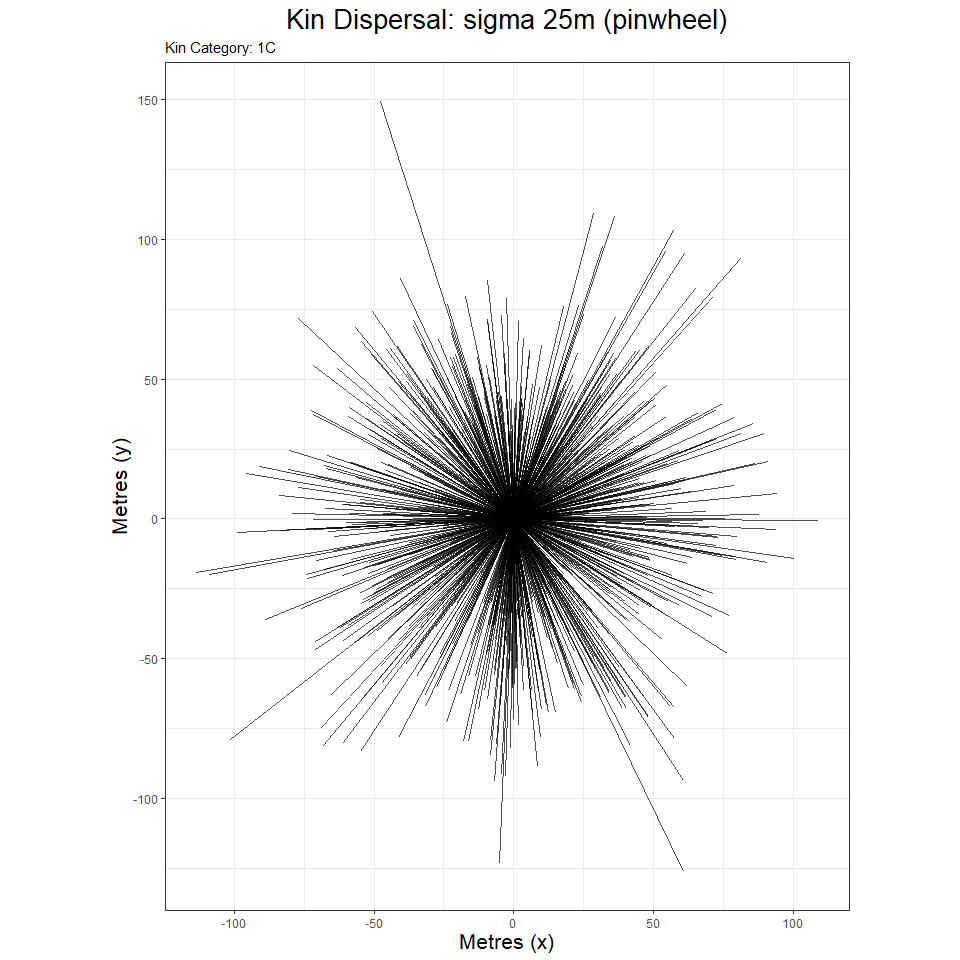
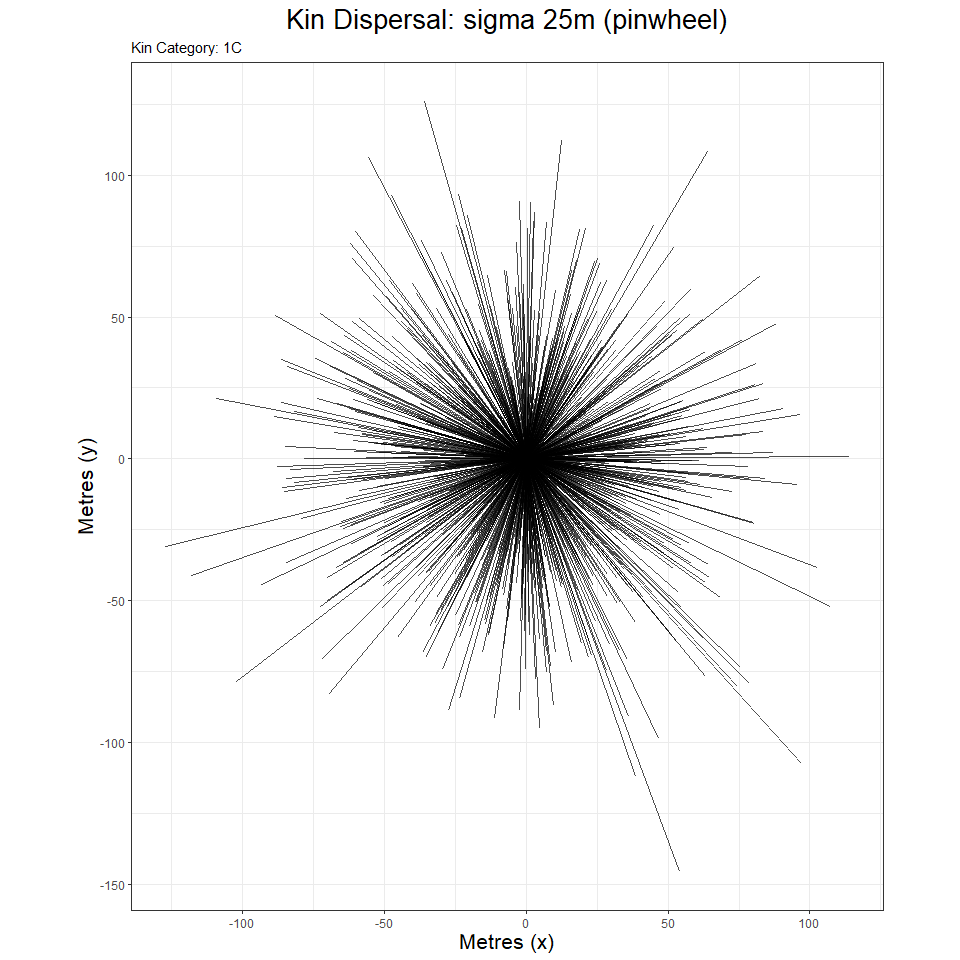
increment version

diff --git a/README.md b/README.md
@@ -1,4 +1,4 @@
-KINDISPERSE 0.10.1
+KINDISPERSE 0.10.2
 ================
 
 -   [1. Introduction](#1-introduction)
@@ -150,7 +150,7 @@ Once installed, load the package as follows:
 
 ``` r
 library(kindisperse)
-#> kindisperse 0.10.1
+#> kindisperse 0.10.2
 ```
 
 # 3. The shiny app
@@ -298,11 +298,11 @@ simulate_kindist_simple(nsims = 5, sigma = 100, method = "Gaussian", kinship = "
 #> # A tibble: 5 x 8
 #>   id1   id2   kinship distance    x1    y1     x2    y2
 #>   <chr> <chr> <chr>      <dbl> <dbl> <dbl>  <dbl> <dbl>
-#> 1 1a    1b    PO          86.1  1.09  2.07  85.1   21.1
-#> 2 2a    2b    PO          61.9 64.1  99.9    3.14 111. 
-#> 3 3a    3b    PO          96.0 83.4  68.2  175.    97.6
-#> 4 4a    4b    PO         134.  46.9  25.5  172.   -23.3
-#> 5 5a    5b    PO          90.7 14.8  58.5  101.    87.5
+#> 1 1a    1b    PO         156.  77.3   96.4   9.70 237. 
+#> 2 2a    2b    PO         103.   4.58  72.6 107.    64.3
+#> 3 3a    3b    PO         127.  45.6   91.4  94.7  209. 
+#> 4 4a    4b    PO          77.2 59.1   17.8 113.   -37.9
+#> 5 5a    5b    PO          63.0 10.8   58.6  47.2  110. 
 #> -----------------------------------
 ```
 
@@ -348,13 +348,13 @@ simulate_kindist_composite(nsims = 5, initsigma = 50, breedsigma = 30, gravsigma
 #> 
 #> tab
 #> # A tibble: 5 x 8
-#>   id1   id2   kinship distance     x1     y1    x2     y2
-#>   <chr> <chr> <chr>      <dbl>  <dbl>  <dbl> <dbl>  <dbl>
-#> 1 1a    1b    H1C         206.  105.   165.  -99.6  188. 
-#> 2 2a    2b    H1C         452.  -41.9 -106.  229.   255. 
-#> 3 3a    3b    H1C         477. -110.   136.  152.  -262. 
-#> 4 4a    4b    H1C         121.   36.8  218.  -57.2  141. 
-#> 5 5a    5b    H1C         179. -132.    82.8  46.9   76.9
+#>   id1   id2   kinship distance    x1     y1    x2    y2
+#>   <chr> <chr> <chr>      <dbl> <dbl>  <dbl> <dbl> <dbl>
+#> 1 1a    1b    H1C         302.  31.9   9.67 154.  286. 
+#> 2 2a    2b    H1C         170. -35.6  41.1   33.4 196. 
+#> 3 3a    3b    H1C         169. 262.  -73.5  139.   42.2
+#> 4 4a    4b    H1C         186. 285.   16.3  162.  156. 
+#> 5 5a    5b    H1C         212. 233.   35.2   21.5  50.4
 #> -----------------------------------
 ```
 
@@ -405,11 +405,11 @@ simulate_kindist_custom(nsims = 5, model = dmodel, kinship = "PO")
 #> # A tibble: 5 x 8
 #>   id1   id2   kinship distance    x1    y1    x2     y2
 #>   <chr> <chr> <chr>      <dbl> <dbl> <dbl> <dbl>  <dbl>
-#> 1 1a    1b    PO          47.9  74.9  88.1  31.5 108.  
-#> 2 2a    2b    PO         107.   45.9  39.6 146.    2.18
-#> 3 3a    3b    PO         164.   88.1  40.8 223.  134.  
-#> 4 4a    4b    PO         218.   81.7  50.2  66.5 268.  
-#> 5 5a    5b    PO          64.1  89.0  46.8 150.   65.3 
+#> 1 1a    1b    PO          53.3  12.7 27.4   62.0   7.18
+#> 2 2a    2b    PO          38.2  65.1 40.5   39.1  12.5 
+#> 3 3a    3b    PO         161.   14.2  3.19 -59.3 146.  
+#> 4 4a    4b    PO         161.   51.4 51.4  171.  160.  
+#> 5 5a    5b    PO         102.   30.9 19.9  -54.5  75.4 
 #> -----------------------------------
 ```
 
@@ -451,18 +451,18 @@ sample_kindist(compsim, upper = 1000, lower = 200, spacing = 50, n = 25)
 #> 
 #> tab
 #> # A tibble: 25 x 8
-#>    id1    id2    kinship distance      x1      y1      x2       y2
-#>    <chr>  <chr>  <chr>      <dbl>   <dbl>   <dbl>   <dbl>    <dbl>
-#>  1 5988a  5988b  H2C          375  167.     93.4  -178.    211.   
-#>  2 21680a 21680b H2C          375   69.7   345.     98.8   -25.9  
-#>  3 90481a 90481b H2C          575 -275.    -10.2   177.    338.   
-#>  4 98513a 98513b H2C          375    6.31  379.     84.4    -0.246
-#>  5 57969a 57969b H2C          375 -332.      1.47  -21.1  -209.   
-#>  6 69384a 69384b H2C          325 -104.   -133.    191.    -41.3  
-#>  7 90055a 90055b H2C          525   53.3   117.   -368.    413.   
-#>  8 69670a 69670b H2C          275  -71.8   549.    210.    488.   
-#>  9 56281a 56281b H2C          525  545.   -128.      5.64  -69.8  
-#> 10 29818a 29818b H2C          325 -125.    -12.3  -180.    316.   
+#>    id1    id2    kinship distance     x1     y1      x2       y2
+#>    <chr>  <chr>  <chr>      <dbl>  <dbl>  <dbl>   <dbl>    <dbl>
+#>  1 95583a 95583b H2C          225  241.   146.    22.9   139.   
+#>  2 57361a 57361b H2C          575  -37.9  102.     2.30 -492.   
+#>  3 98699a 98699b H2C          275 -107.  -251.   -13.5    -0.406
+#>  4 41608a 41608b H2C          275  -16.6  253.   235.    175.   
+#>  5 74806a 74806b H2C          425  -22.5  117.  -207.   -265.   
+#>  6 72538a 72538b H2C          725 -306.  -267.   229.    235.   
+#>  7 65305a 65305b H2C          225   42.1  -56.3  218.     38.3  
+#>  8 11724a 11724b H2C          575 -249.   391.   203.     59.1  
+#>  9 54137a 54137b H2C          475 -159.    37.2  295.    -74.0  
+#> 10 3391a  3391b  H2C          275  167.   188.   -88.6    61.7  
 #> # ... with 15 more rows
 #> -----------------------------------
 ```
@@ -558,13 +558,13 @@ of three draws from the PO distribution, and thus would take
 ``` r
 paroff <- simulate_kindist_simple(nsims = 1000, sigma = 75, kinship = "PO")
 axials(paroff)
-#> [1] 77.42262
+#> [1] 78.12723
 ```
 
 ``` r
 fullsibs <- simulate_kindist_composite(nsims = 10000, ovisigma = 25, kinship = "FS")
 axials(fullsibs, composite = 2)
-#> [1] 25.05323
+#> [1] 25.01521
 ```
 
 Various auxillary functions exist to further manipulate axial distances
@@ -648,7 +648,7 @@ fullcous <- simulate_kindist_composite(nsims = 75, initsigma = init, breedsigma 
 
 axpermute_standard(fullcous, fullsibs)
 #>      2.5%      mean     97.5% 
-#>  86.03582  97.50953 109.82907
+#>  78.25793  89.93338 102.15712
 ```
 
 As we can see, the C.I. neatly brackets the actual axial value, though
@@ -678,18 +678,18 @@ cousins
 #> 
 #> tab
 #> # A tibble: 150 x 9
-#>    id1   id2   kinship distance      x1     y1      x2      y2 lifestage
-#>    <chr> <chr> <chr>      <dbl>   <dbl>  <dbl>   <dbl>   <dbl> <chr>    
-#>  1 1a    1b    UN         267.   129.    64.2    -5.28 -167.   immature 
-#>  2 2a    2b    UN         245.  -199.    -7.09   45.9    -2.45 immature 
-#>  3 3a    3b    UN         124.     6.13 113.    123.     71.6  immature 
-#>  4 4a    4b    UN          78.0    2.12  46.1   -14.9   -30.0  immature 
-#>  5 5a    5b    UN         155.    65.1  206.    158.     82.0  immature 
-#>  6 6a    6b    UN          93.6  -96.5   23.3  -150.    100.   immature 
-#>  7 7a    7b    UN         209.   -63.0  227.    -29.4    20.4  immature 
-#>  8 8a    8b    UN         119.    87.9  -86.0   198.   -132.   immature 
-#>  9 9a    9b    UN         465.   361.   166.    -84.0    32.2  immature 
-#> 10 10a   10b   UN          76.8   84.2  -67.7    63.3     6.20 immature 
+#>    id1   id2   kinship distance    x1     y1      x2     y2 lifestage
+#>    <chr> <chr> <chr>      <dbl> <dbl>  <dbl>   <dbl>  <dbl> <chr>    
+#>  1 1a    1b    UN          67.5 -65.1  13.9   -14.2  -30.4  immature 
+#>  2 2a    2b    UN          33.5  94.7  -2.28   62.2    5.78 immature 
+#>  3 3a    3b    UN         118.   50.3  40.2   163.    75.2  immature 
+#>  4 4a    4b    UN         298.  112.   40.6   -64.9  281.   immature 
+#>  5 5a    5b    UN         178.  136.  115.      7.86  -8.27 immature 
+#>  6 6a    6b    UN          25.8  25.4  31.1    20.8    5.76 immature 
+#>  7 7a    7b    UN         168.   46.0  -9.32 -121.   -30.1  immature 
+#>  8 8a    8b    UN         131.  214.   61.2   146.   173.   immature 
+#>  9 9a    9b    UN         162.  -15.9  69.4  -178.    63.8  immature 
+#> 10 10a   10b   UN         167.  114.   -1.36   61.7  158.   immature 
 #> # ... with 140 more rows
 #> -------------------------------
 ```
@@ -704,8 +704,8 @@ missing category data:
 # bcomp allows supply of distribution to composite with bvect (this is done to match 
 # the cousin mixture in phase)
 axpermute_standard(avect = cousins, acat = "1C", amix = TRUE, amixcat = "H1C", bvect = fullsibs, bcomp = TRUE, bcompvect = halfsibs)
-#>     2.5%     mean    97.5% 
-#> 75.82622 86.19653 96.91583
+#>      2.5%      mean     97.5% 
+#>  75.69095  89.00468 100.93167
 ```
 
 This estimate is a lot more convoluted, and not as ‘spot on’- but the
@@ -877,18 +877,18 @@ ant_po
 #> 
 #> tab
 #> # A tibble: 10,000 x 8
-#>    id1   id2   kinship distance    x1    y1     x2     y2
-#>    <chr> <chr> <chr>      <dbl> <dbl> <dbl>  <dbl>  <dbl>
-#>  1 1a    1b    PO        130.   96.8  90.7    67.2 217.  
-#>  2 2a    2b    PO        123.    9.48 52.4   131.   73.0 
-#>  3 3a    3b    PO         76.4  99.9  98.1    24.1 108.  
-#>  4 4a    4b    PO        106.   88.9  63.2   -13.3  92.1 
-#>  5 5a    5b    PO        137.    8.41 14.4    38.6 148.  
-#>  6 6a    6b    PO         47.9  86.2  33.4   134.   27.6 
-#>  7 7a    7b    PO        196.   89.1  33.1  -107.   34.0 
-#>  8 8a    8b    PO        264.   74.4  83.3   158.  334.  
-#>  9 9a    9b    PO         62.3  41.6  79.8    64.0 138.  
-#> 10 10a   10b   PO          5.07 45.5   3.84   42.0   7.45
+#>    id1   id2   kinship distance    x1    y1     x2       y2
+#>    <chr> <chr> <chr>      <dbl> <dbl> <dbl>  <dbl>    <dbl>
+#>  1 1a    1b    PO         163.   90.5 54.7  233.    -25.3  
+#>  2 2a    2b    PO         113.   70.0  5.08 113.    -99.3  
+#>  3 3a    3b    PO         171.   74.2 11.5   52.1  -158.   
+#>  4 4a    4b    PO         192.   96.9 27.7  286.     62.2  
+#>  5 5a    5b    PO          81.3  48.6 35.5   -8.12   93.7  
+#>  6 6a    6b    PO         140.   45.1 28.5  -72.3   105.   
+#>  7 7a    7b    PO         122.   69.6 86.2  -16.8     0.546
+#>  8 8a    8b    PO         305.   23.3 88.0  325.     43.9  
+#>  9 9a    9b    PO          86.6  50.7  6.77 137.      2.19 
+#> 10 10a   10b   PO         166.   77.6 33.1  154.   -114.   
 #> # ... with 9,990 more rows
 #> -----------------------------------
 ```
@@ -896,7 +896,7 @@ ant_po
 Now we’ll use the `axials()` function to characterise our ‘default’
 dispersal for the model:
 
-`axials(ant_po)`: 118.1711765
+`axials(ant_po)`: 117.4232393
 
 The value is around 117 the ‘expected’ value of PO we should get back
 from more complex estimation processes.
@@ -911,7 +911,7 @@ ant_fs <- simulate_kindist_custom(nsims = 10000, model = antechinus_model, kinsh
 ant_1c <- simulate_kindist_custom(nsims = 10000, model = antechinus_model, kinship = "1C")
 
 axials_standard(ant_1c, ant_fs) # larger dispersal category goes first. 
-#> [1] 117.6218
+#> [1] 117.92
 ```
 
 The FS/1C strategy has been validated theoretically - but an important
@@ -1073,18 +1073,18 @@ ant_1c_juv
 #> 
 #> tab
 #> # A tibble: 100,000 x 8
-#>    id1   id2   kinship distance     x1     y1     x2     y2
-#>    <chr> <chr> <chr>      <dbl>  <dbl>  <dbl>  <dbl>  <dbl>
-#>  1 1a    1b    1C         221.   25.1   324.    41.3  103. 
-#>  2 2a    2b    1C         162.  -66.5  -157.  -139.   -11.3
-#>  3 3a    3b    1C         105.   -5.75   93.8   65.2   16.0
-#>  4 4a    4b    1C         182.  192.   -127.    51.6  -10.7
-#>  5 5a    5b    1C         289.  139.   -152.    11.1  107. 
-#>  6 6a    6b    1C         483.  -81.2   252.   151.  -172. 
-#>  7 7a    7b    1C         365.  229.     68.6 -121.   171. 
-#>  8 8a    8b    1C         128.  -95.9   -43.1  -19.2   59.1
-#>  9 9a    9b    1C          86.7 134.     21.3   78.3   88.1
-#> 10 10a   10b   1C          30.8  71.9   130.    41.2  133. 
+#>    id1   id2   kinship distance      x1      y1      x2     y2
+#>    <chr> <chr> <chr>      <dbl>   <dbl>   <dbl>   <dbl>  <dbl>
+#>  1 1a    1b    1C          241.  152.     99.4   -26.7   261. 
+#>  2 2a    2b    1C          326.   25.4   211.    217.    -52.2
+#>  3 3a    3b    1C          245.   60.8    48.9  -134.    197. 
+#>  4 4a    4b    1C          302.   81.2    -8.31  294.   -222. 
+#>  5 5a    5b    1C          182. -143.    -61.1     3.52   45.5
+#>  6 6a    6b    1C          330. -155.   -182.     16.3   101. 
+#>  7 7a    7b    1C          167.  -10.3    18.6   145.     79.5
+#>  8 8a    8b    1C          158.  158.     41.5     2.22   67.0
+#>  9 9a    9b    1C          276.   -3.21  144.    -77.5   410. 
+#> 10 10a   10b   1C          401. -173.    343.     66.5    22.0
 #> # ... with 99,990 more rows
 #> -----------------------------------
 ```
@@ -1108,18 +1108,18 @@ ant_fs_juv
 #> 
 #> tab
 #> # A tibble: 100,000 x 8
-#>    id1   id2   kinship distance      x1    y1      x2    y2
-#>    <chr> <chr> <chr>      <dbl>   <dbl> <dbl>   <dbl> <dbl>
-#>  1 1a    1b    FS             0 46.3    90.4  46.3    90.4 
-#>  2 2a    2b    FS             0  3.40   66.7   3.40   66.7 
-#>  3 3a    3b    FS             0 11.3    21.6  11.3    21.6 
-#>  4 4a    4b    FS             0 19.3    99.3  19.3    99.3 
-#>  5 5a    5b    FS             0 83.7    77.2  83.7    77.2 
-#>  6 6a    6b    FS             0 74.8    35.1  74.8    35.1 
-#>  7 7a    7b    FS             0 81.3    30.9  81.3    30.9 
-#>  8 8a    8b    FS             0  0.0803 71.6   0.0803 71.6 
-#>  9 9a    9b    FS             0 33.6    96.0  33.6    96.0 
-#> 10 10a   10b   FS             0 36.5     5.94 36.5     5.94
+#>    id1   id2   kinship distance    x1    y1    x2    y2
+#>    <chr> <chr> <chr>      <dbl> <dbl> <dbl> <dbl> <dbl>
+#>  1 1a    1b    FS             0 71.5  78.4  71.5  78.4 
+#>  2 2a    2b    FS             0 79.4  49.8  79.4  49.8 
+#>  3 3a    3b    FS             0 92.6  57.6  92.6  57.6 
+#>  4 4a    4b    FS             0 68.8  19.6  68.8  19.6 
+#>  5 5a    5b    FS             0 52.0  35.8  52.0  35.8 
+#>  6 6a    6b    FS             0 45.8   6.72 45.8   6.72
+#>  7 7a    7b    FS             0  1.76 73.1   1.76 73.1 
+#>  8 8a    8b    FS             0  1.45 59.1   1.45 59.1 
+#>  9 9a    9b    FS             0 36.1  42.7  36.1  42.7 
+#> 10 10a   10b   FS             0 56.4  39.2  56.4  39.2 
 #> # ... with 99,990 more rows
 #> -----------------------------------
 ```
@@ -1136,7 +1136,7 @@ they have not dispersed at all, so will not confound the estimate)
 ``` r
 axpermute_standard(ant_1c_juv, ant_fs_juv, nsamp = 100, override = TRUE)
 #>     2.5%     mean    97.5% 
-#> 101.9053 117.1050 134.8936
+#> 101.4701 117.2462 132.8573
 ```
 
 This is excellent so far. Mean dispersal is still around 117, so
@@ -1162,7 +1162,7 @@ ant_1c_juv %>% sample_kindist(dims = 100, n = 1000) %>% axpermute_standard(ant_f
 #> Down-sampling to 1000 kin pairs
 #> 1000 kin pairs remaining.
 #>     2.5%     mean    97.5% 
-#> 25.17507 27.51873 29.71393
+#> 25.20273 27.71623 30.10909
 ```
 
 A 100x100 metre sampling area is woefully inadequate (estimating the
@@ -1175,7 +1175,7 @@ ant_1c_juv %>% sample_kindist(dims = 1000, n = 1000) %>% axpermute_standard(ant_
 #> Down-sampling to 1000 kin pairs
 #> 1000 kin pairs remaining.
 #>      2.5%      mean     97.5% 
-#>  85.05691  97.03670 109.37340
+#>  87.86239  99.84018 111.59100
 ```
 
 We are doing better here: with an average of \~100m. But we’re still 15%
@@ -1188,7 +1188,7 @@ ant_1c_juv %>% sample_kindist(dims = 2000, n = 1000) %>% axpermute_standard(ant_
 #> Down-sampling to 1000 kin pairs
 #> 1000 kin pairs remaining.
 #>      2.5%      mean     97.5% 
-#>  95.88676 112.26431 131.12940
+#>  97.95822 114.03904 130.29055
 ```
 
 This estimate is acceptable, with a mean only a few metres short, and
